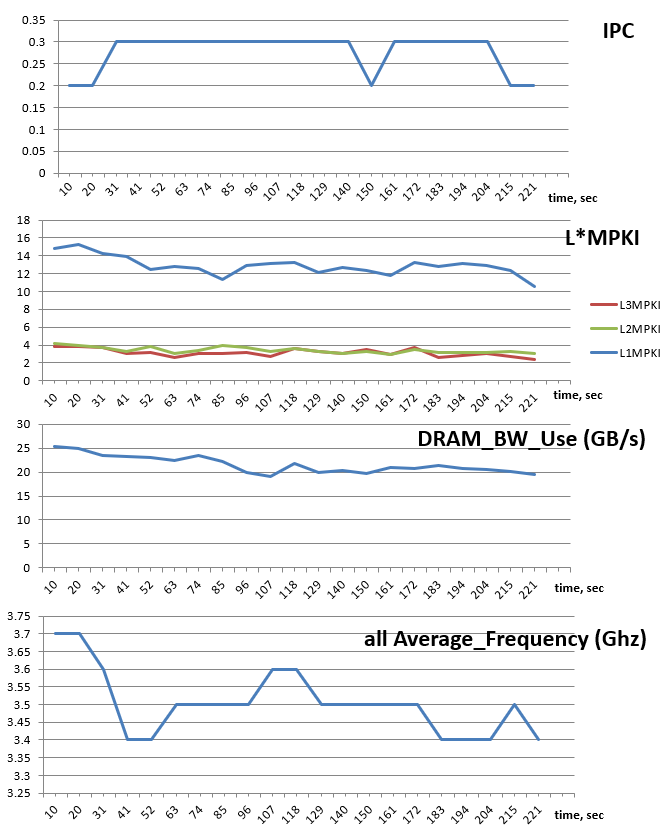
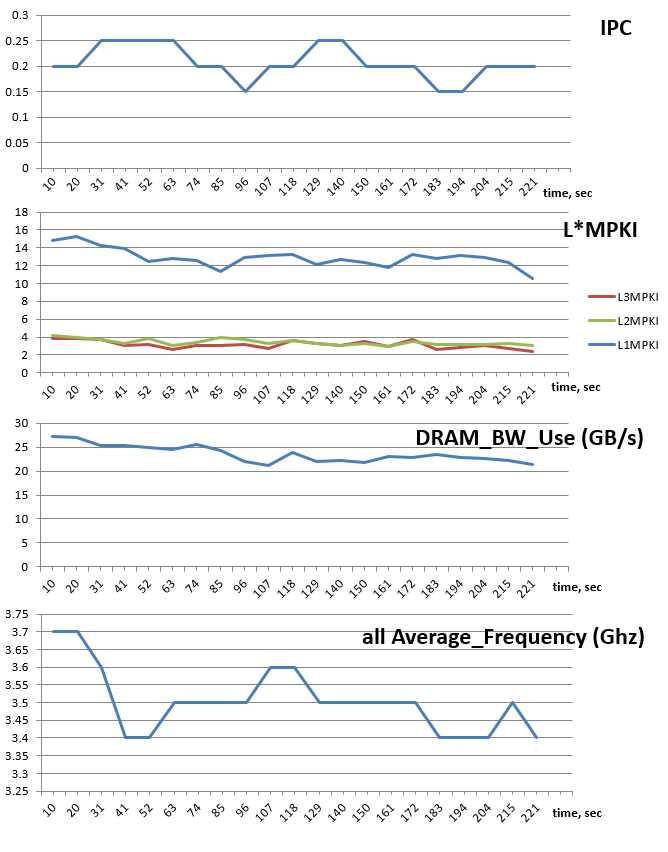
Updated charts for CloverLeaf

Changed region(s): [[0.0, 0.0, 0.988, 0.994], [0.8982, 0.0, 0.9581, 0.0621]]

diff --git a/chapters/4-Terminology-And-Metrics/4-11 Case Study of 4 Benchmarks.md b/chapters/4-Terminology-And-Metrics/4-11 Case Study of 4 Benchmarks.md
@@ -105,6 +105,8 @@ As you can see from this study, there is a lot one can learn about behavior of a
 
 Another caveat is that it only tells you about the average behavior of the program. For example, we might be looking at Stockfish's IPC of `1.8`, while in reality it may never run with such an IPC, instead it may have 2 phases of equal duration, one running with IPC of `1.6`, and the second with IPC of `1.8`. Common way to tackle this is to report statistical data for each metric along with the average value. Usually, having min, max, 95th percentile, and variation (stdev/avg) is enough to understand the distribution. Also, some tools allow plotting the data, so you can see how the value for a certain metric evolved during the program running time. As an example, figure @fig:CloverMetricCharts shows IPC, ... metrics 
 
+We can see that the workload is not stable, and its IPC and other metrics change over time.
+
 ![A set of metrics charts for the CloverLeaf benchmark.](../../img/terms-and-metrics/CloverMetricCharts.png){#fig:CloverMetricCharts width=100% }
 
 We discuss how to mitigate all the issues we suspect in the mentioned benchmarks later in the book.

diff --git a/chapters/4-Terminology-And-Metrics/4-15 Questions-Exercises.md b/chapters/4-Terminology-And-Metrics/4-15 Questions-Exercises.md
@@ -1,3 +1,7 @@
 ## Questions and Exercises {.unlisted .unnumbered}
 
 1. DRAM BW Use formula: 64, because it's the size of the cache line ?
+
+2. Measure theoretical maximums on your platform (your personal computer) using MLC, stream and other tools.
+
+3. Collect metrics for the application your are working on daily. Does anything surprises you?
